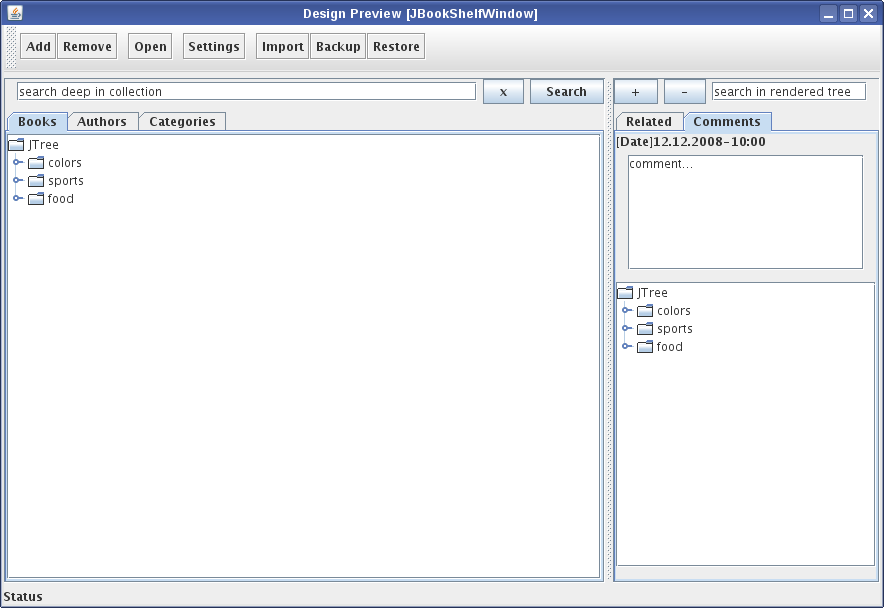
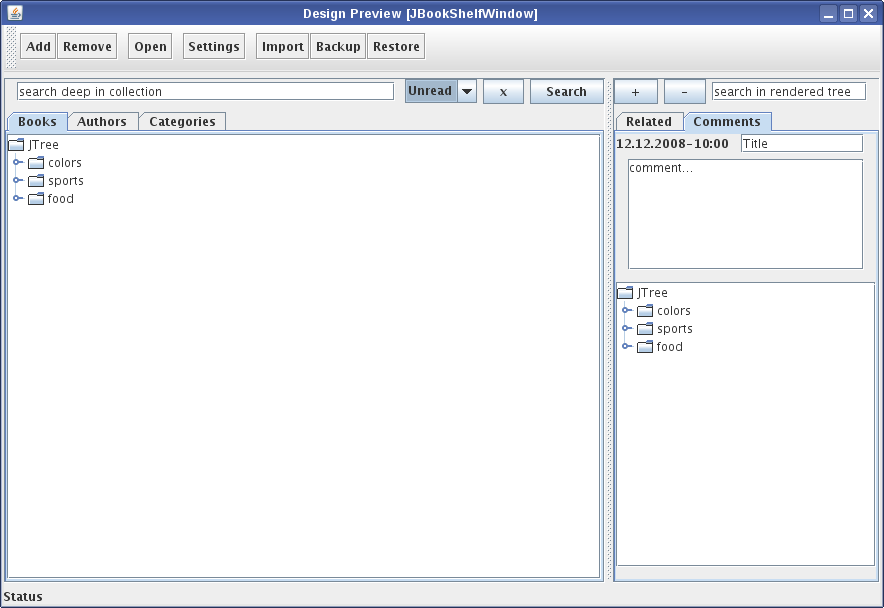
modified main window design

Changed region(s): [[0.7025, 0.2188, 0.9774, 0.2812], [0.4581, 0.125, 0.5498, 0.1875]]

diff --git a/trunk/projects/JBookShelf/src/org/jbookshelf/gui/JBookShelfWindow.java b/trunk/projects/JBookShelf/src/org/jbookshelf/gui/JBookShelfWindow.java
@@ -44,6 +44,7 @@ public class JBookShelfWindow extends javax.swing.JFrame {
         jButton5 = new javax.swing.JButton();
         jTextField1 = new javax.swing.JTextField();
         jButton6 = new javax.swing.JButton();
+        jComboBox1 = new javax.swing.JComboBox();
         jTabbedPane2 = new javax.swing.JTabbedPane();
         jScrollPane1 = new javax.swing.JScrollPane();
         jTree3 = new javax.swing.JTree();
@@ -64,6 +65,7 @@ public class JBookShelfWindow extends javax.swing.JFrame {
         jLabel2 = new javax.swing.JLabel();
         jScrollPane6 = new javax.swing.JScrollPane();
         jTextArea1 = new javax.swing.JTextArea();
+        jTextField3 = new javax.swing.JTextField();
 
         setDefaultCloseOperation(javax.swing.WindowConstants.EXIT_ON_CLOSE);
         setMinimumSize(new java.awt.Dimension(800, 600));
@@ -132,13 +134,17 @@ public class JBookShelfWindow extends javax.swing.JFrame {
         jButton6.setText(bundle.getString("JBookShelfWindow.jButton6.text")); // NOI18N
         jButton6.setAutoscrolls(true);
 
+        jComboBox1.setModel(new javax.swing.DefaultComboBoxModel(new String[] { "All", "Read", "Unread" }));
+
         javax.swing.GroupLayout jPanel3Layout = new javax.swing.GroupLayout(jPanel3);
         jPanel3.setLayout(jPanel3Layout);
         jPanel3Layout.setHorizontalGroup(
             jPanel3Layout.createParallelGroup(javax.swing.GroupLayout.Alignment.LEADING)
             .addGroup(javax.swing.GroupLayout.Alignment.TRAILING, jPanel3Layout.createSequentialGroup()
                 .addContainerGap()
-                .addComponent(jTextField1, javax.swing.GroupLayout.DEFAULT_SIZE, 460, Short.MAX_VALUE)
+                .addComponent(jTextField1, javax.swing.GroupLayout.PREFERRED_SIZE, 378, javax.swing.GroupLayout.PREFERRED_SIZE)
+                .addPreferredGap(javax.swing.LayoutStyle.ComponentPlacement.RELATED, 10, Short.MAX_VALUE)
+                .addComponent(jComboBox1, javax.swing.GroupLayout.PREFERRED_SIZE, javax.swing.GroupLayout.DEFAULT_SIZE, javax.swing.GroupLayout.PREFERRED_SIZE)
                 .addPreferredGap(javax.swing.LayoutStyle.ComponentPlacement.RELATED)
                 .addComponent(jButton5)
                 .addPreferredGap(javax.swing.LayoutStyle.ComponentPlacement.RELATED)
@@ -149,7 +155,8 @@ public class JBookShelfWindow extends javax.swing.JFrame {
             .addGroup(jPanel3Layout.createParallelGroup(javax.swing.GroupLayout.Alignment.BASELINE)
                 .addComponent(jButton6)
                 .addComponent(jButton5)
-                .addComponent(jTextField1, javax.swing.GroupLayout.PREFERRED_SIZE, javax.swing.GroupLayout.DEFAULT_SIZE, javax.swing.GroupLayout.PREFERRED_SIZE))
+                .addComponent(jTextField1, javax.swing.GroupLayout.PREFERRED_SIZE, javax.swing.GroupLayout.DEFAULT_SIZE, javax.swing.GroupLayout.PREFERRED_SIZE)
+                .addComponent(jComboBox1, javax.swing.GroupLayout.PREFERRED_SIZE, javax.swing.GroupLayout.DEFAULT_SIZE, javax.swing.GroupLayout.PREFERRED_SIZE))
         );
 
         jScrollPane1.setViewportView(jTree3);
@@ -200,23 +207,31 @@ public class JBookShelfWindow extends javax.swing.JFrame {
         jTextArea1.setText(bundle.getString("JBookShelfWindow.jTextArea1.text")); // NOI18N
         jScrollPane6.setViewportView(jTextArea1);
 
+        jTextField3.setText(bundle.getString("JBookShelfWindow.jTextField3.text")); // NOI18N
+
         javax.swing.GroupLayout jPanel4Layout = new javax.swing.GroupLayout(jPanel4);
         jPanel4.setLayout(jPanel4Layout);
         jPanel4Layout.setHorizontalGroup(
             jPanel4Layout.createParallelGroup(javax.swing.GroupLayout.Alignment.LEADING)
-            .addComponent(jLabel2, javax.swing.GroupLayout.DEFAULT_SIZE, 258, Short.MAX_VALUE)
             .addComponent(jScrollPane3, javax.swing.GroupLayout.DEFAULT_SIZE, 258, Short.MAX_VALUE)
             .addGroup(jPanel4Layout.createSequentialGroup()
                 .addContainerGap()
                 .addComponent(jScrollPane6, javax.swing.GroupLayout.DEFAULT_SIZE, 234, Short.MAX_VALUE)
                 .addContainerGap())
+            .addGroup(jPanel4Layout.createSequentialGroup()
+                .addComponent(jLabel2)
+                .addPreferredGap(javax.swing.LayoutStyle.ComponentPlacement.RELATED)
+                .addComponent(jTextField3, javax.swing.GroupLayout.DEFAULT_SIZE, 121, Short.MAX_VALUE)
+                .addContainerGap())
         );
         jPanel4Layout.setVerticalGroup(
             jPanel4Layout.createParallelGroup(javax.swing.GroupLayout.Alignment.LEADING)
             .addGroup(javax.swing.GroupLayout.Alignment.TRAILING, jPanel4Layout.createSequentialGroup()
-                .addComponent(jLabel2)
+                .addGroup(jPanel4Layout.createParallelGroup(javax.swing.GroupLayout.Alignment.BASELINE)
+                    .addComponent(jLabel2)
+                    .addComponent(jTextField3, javax.swing.GroupLayout.PREFERRED_SIZE, javax.swing.GroupLayout.DEFAULT_SIZE, javax.swing.GroupLayout.PREFERRED_SIZE))
                 .addPreferredGap(javax.swing.LayoutStyle.ComponentPlacement.RELATED)
-                .addComponent(jScrollPane6, javax.swing.GroupLayout.DEFAULT_SIZE, 114, Short.MAX_VALUE)
+                .addComponent(jScrollPane6, javax.swing.GroupLayout.DEFAULT_SIZE, 110, Short.MAX_VALUE)
                 .addPreferredGap(javax.swing.LayoutStyle.ComponentPlacement.UNRELATED)
                 .addComponent(jScrollPane3, javax.swing.GroupLayout.PREFERRED_SIZE, 285, javax.swing.GroupLayout.PREFERRED_SIZE)
                 .addContainerGap())
@@ -300,6 +315,7 @@ private void jButton1ActionPerformed(java.awt.event.ActionEvent evt) {//GEN-FIRS
     private javax.swing.JButton jButton7;
     private javax.swing.JButton jButton8;
     private javax.swing.JButton jButton9;
+    private javax.swing.JComboBox jComboBox1;
     private javax.swing.JLabel jLabel1;
     private javax.swing.JLabel jLabel2;
     private javax.swing.JPanel jPanel1;
@@ -321,6 +337,7 @@ private void jButton1ActionPerformed(java.awt.event.ActionEvent evt) {//GEN-FIRS
     private javax.swing.JTextArea jTextArea1;
     private javax.swing.JTextField jTextField1;
     private javax.swing.JTextField jTextField2;
+    private javax.swing.JTextField jTextField3;
     private javax.swing.JToolBar jToolBar1;
     private javax.swing.JTree jTree1;
     private javax.swing.JTree jTree2;
